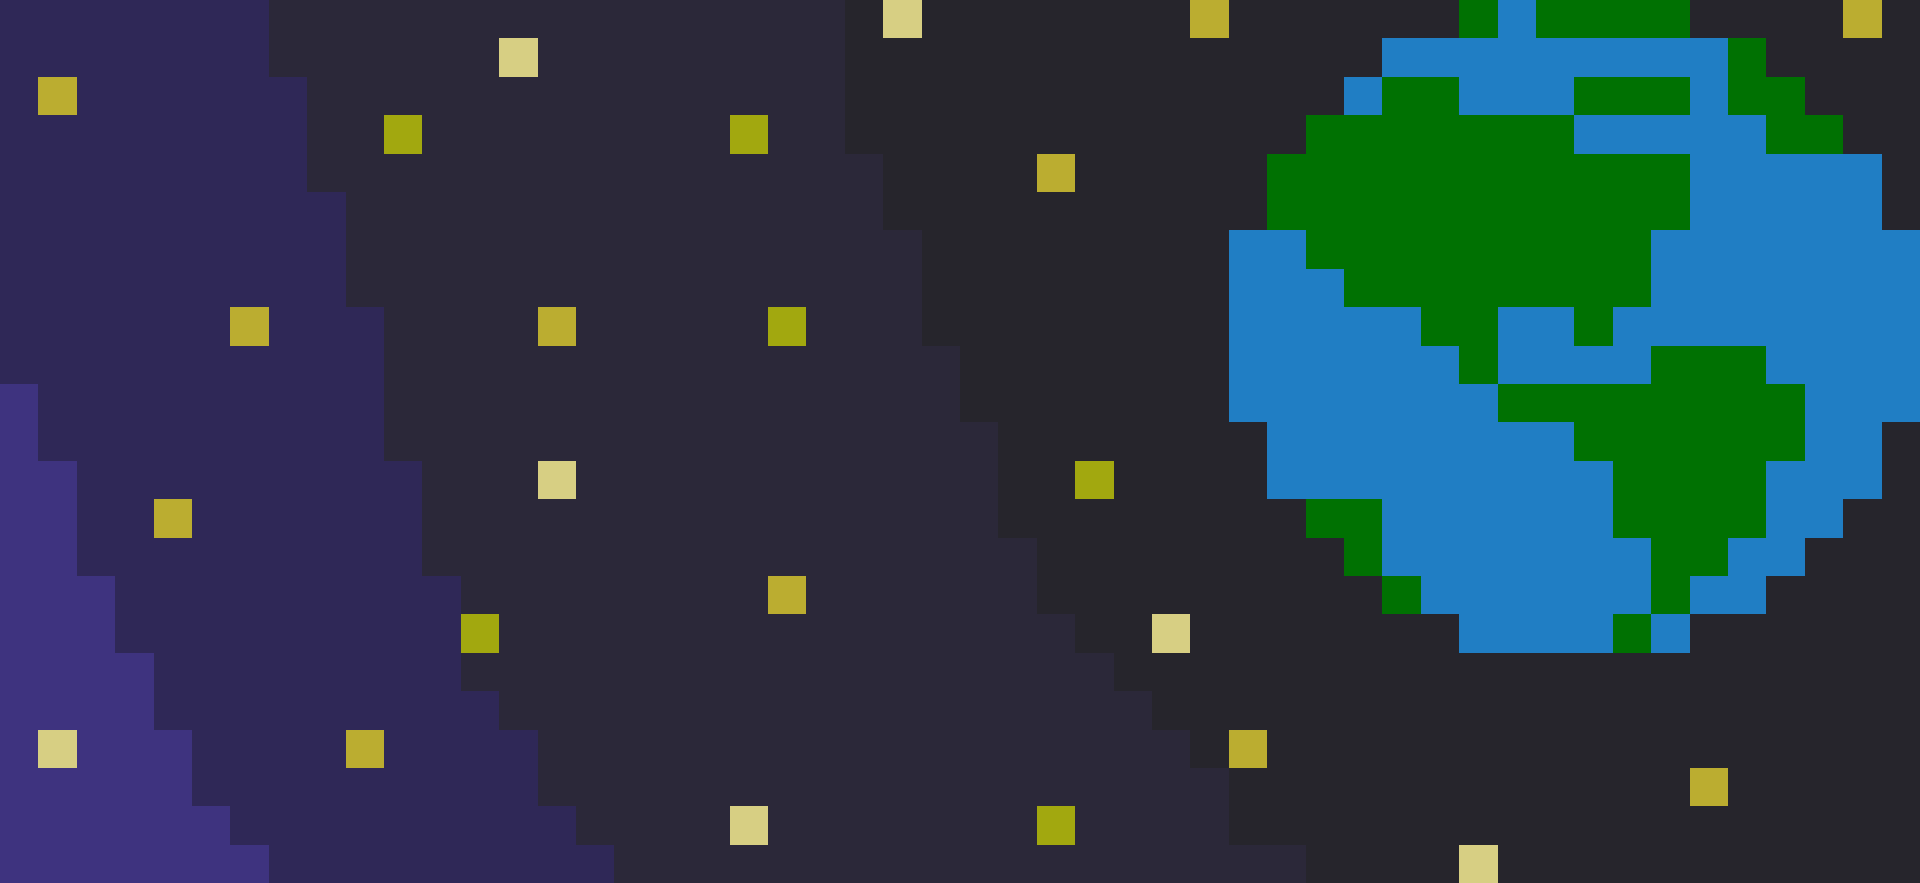
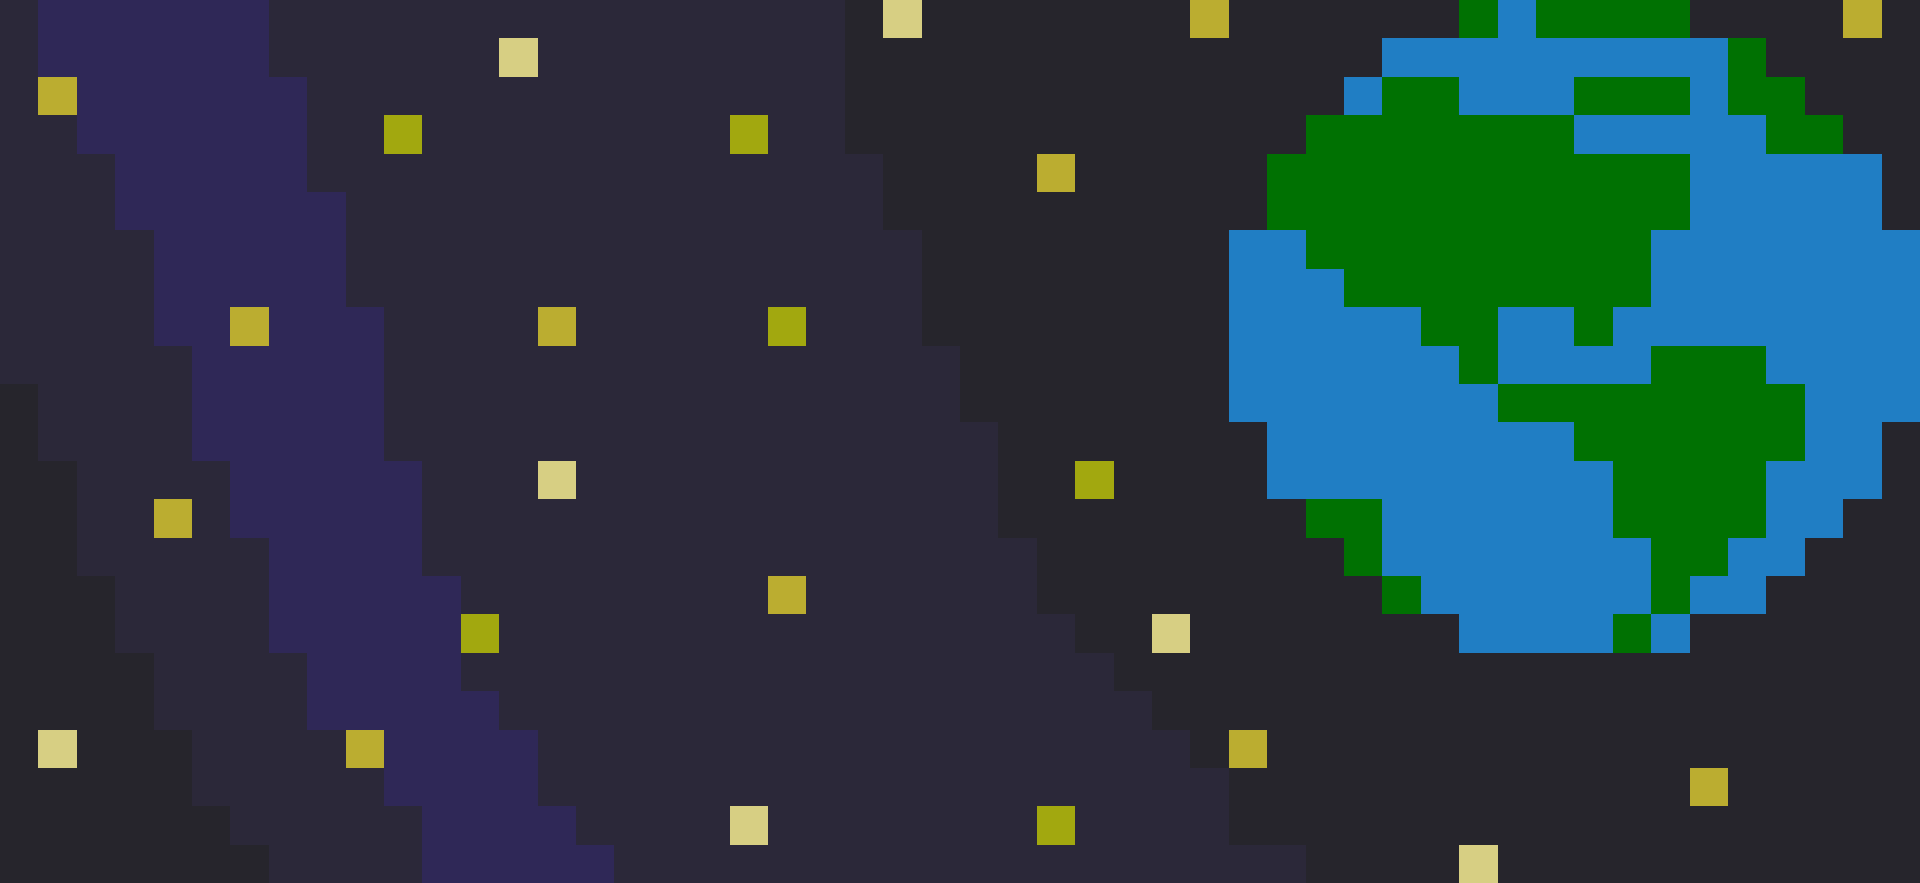
barriers and floors of levels

Changed region(s): [[0.0, 0.0, 0.2188, 1.0]]

diff --git a/screens/Game/BaseGame.js b/screens/Game/BaseGame.js
@@ -21,7 +21,6 @@ export default function BaseGame({ background, playerGiF, barrierImg, floorImg, 
 
     // screen animation values
     const screenX = useRef(new Animated.Value(0)).current;
-    const rotateVal = useRef(new Animated.Value(0)).current;
 
     const { width: SCREEN_WIDTH } = Dimensions.get('window');
 
@@ -176,7 +175,7 @@ useEffect(() => { // screen background animation
                 styles.background,
                 { transform: [{ translateX: screenX }] },
             ]}
-            resizeMode="cover"
+            resizeMode="stretch"
         />
         <Animated.Image
             source={background}
@@ -188,14 +187,14 @@ useEffect(() => { // screen background animation
                     transform: [{ translateX: screenX }],
                 },
             ]}
-            resizeMode="cover"
+            resizeMode="stretch"
         />
     
         {/* Game content goes here */}
-
+    
         <ImageBackground source={floorImg} style={styles.floor} imageStyle={{ resizeMode: 'stretch' }} />
 
-            <View style={styles.scoreArea}><Text style={styles.scoreText}> Score: {score} </Text></View>
+        <View style={styles.scoreArea}><Text style={styles.scoreText}> Score: {score} </Text></View>
 
 
         {/* Player */}
@@ -273,8 +272,8 @@ const styles = StyleSheet.create({
         left: 60,
     },
     barrier: {
-        width: 30,
-        height: 80,
+        width: 50,
+        height: 100,
         position: 'absolute',
         bottom: 90,
         left: 0,

diff --git a/screens/Game/Mountain.js b/screens/Game/Mountain.js
@@ -1,16 +1,23 @@
-import { View, Text, StyleSheet } from 'react-native';
+import React from 'react';
+import { View } from 'react-native';
+import BaseGame from './BaseGame';
+import barrier from '../../assets/barriers/mountainBarrier.png';
+import background from '../../assets/levelbackgrounds/Mountain_lvl_bg.png';
+import floor from '../../assets/levelfloor/mountainGround.png';
 
-function Mountain() {
+export default function Track({ playerCharacter, onComplete, onFail }) {
   return (
-    <View style={styles.container}>
-      <Text> Mountain Lvl</Text>
+    <View style={{ flex: 1 }}>
+      <BaseGame
+        background={background}
+        playerGiF={playerCharacter}
+        barrierImg={barrier}
+        floorImg={floor}
+        onComplete={onComplete}
+        onFail={onFail}
+      />
     </View>
+
   );
+
 }
-
-export default Mountain; 
-
-
-const styles = StyleSheet.create({
-    container: {},
-});

diff --git a/screens/Game/Desert.js b/screens/Game/Desert.js
@@ -1,16 +1,23 @@
-import { View, Text, StyleSheet } from 'react-native';
+import React from 'react';
+import { View } from 'react-native';
+import BaseGame from './BaseGame';
+import barrier from '../../assets/barriers/desertBarrier.png';
+import background from '../../assets/levelbackgrounds/Desert_lvl_bg.png';
+import floor from '../../assets/levelfloor/desertGround.png';
 
-function Desert() {
+export default function Track({ playerCharacter, onComplete, onFail }) {
   return (
-    <View style={styles.container}>
-      <Text> Desert Lvl</Text>
+    <View style={{ flex: 1 }}>
+      <BaseGame
+        background={background}
+        playerGiF={playerCharacter}
+        barrierImg={barrier}
+        floorImg={floor}
+        onComplete={onComplete}
+        onFail={onFail}
+      />
     </View>
+
   );
+
 }
-
-export default Desert; 
-
-
-const styles = StyleSheet.create({
-    container: {},
-});

diff --git a/screens/Game/Forest.js b/screens/Game/Forest.js
@@ -1,16 +1,23 @@
-import { View, Text, StyleSheet } from 'react-native';
+import React from 'react';
+import { View } from 'react-native';
+import BaseGame from './BaseGame';
+import barrier from '../../assets/barriers/forestBarrier.png';
+import background from '../../assets/levelbackgrounds/Forest_lvl_bg.png';
+import floor from '../../assets/levelfloor/forestGround.png';
 
-function Forest() {
+export default function Track({ playerCharacter, onComplete, onFail }) {
   return (
-    <View style={styles.container}>
-      <Text> Forest Lvl</Text>
+    <View style={{ flex: 1 }}>
+      <BaseGame
+        background={background}
+        playerGiF={playerCharacter}
+        barrierImg={barrier}
+        floorImg={floor}
+        onComplete={onComplete}
+        onFail={onFail}
+      />
     </View>
+
   );
+
 }
-
-export default Forest; 
-
-
-const styles = StyleSheet.create({
-    container: {},
-});

diff --git a/screens/Game/Space.js b/screens/Game/Space.js
@@ -1,16 +1,23 @@
-import { View, Text, StyleSheet } from 'react-native';
+import React from 'react';
+import { View } from 'react-native';
+import BaseGame from './BaseGame';
+import barrier from '../../assets/barriers/spaceBarrier.png';
+import background from '../../assets/levelbackgrounds/Space_lvl_bg.png';
+import floor from '../../assets/levelfloor/spaceGround.png';
 
-function Space() {
+export default function Track({ playerCharacter, onComplete, onFail }) {
   return (
-    <View style={styles.container}>
-      <Text> Space Lvl</Text>
+    <View style={{ flex: 1 }}>
+      <BaseGame
+        background={background}
+        playerGiF={playerCharacter}
+        barrierImg={barrier}
+        floorImg={floor}
+        onComplete={onComplete}
+        onFail={onFail}
+      />
     </View>
+
   );
+
 }
-
-export default Space; 
-
-
-const styles = StyleSheet.create({
-    container: {},
-});

diff --git a/screens/Game/Road.js b/screens/Game/Road.js
@@ -1,16 +1,23 @@
-import { View, Text, StyleSheet } from 'react-native';
+import React from 'react';
+import { View } from 'react-native';
+import BaseGame from './BaseGame';
+import barrier from '../../assets/barriers/roadBarrier.png';
+import background from '../../assets/levelbackgrounds/Road_lvl_bg.png';
+import floor from '../../assets/levelfloor/roadGround.png';
 
-function Road() {
+export default function Track({ playerCharacter, onComplete, onFail }) {
   return (
-    <View style={styles.container}>
-      <Text> Road Lvl</Text>
+    <View style={{ flex: 1 }}>
+      <BaseGame
+        background={background}
+        playerGiF={playerCharacter}
+        barrierImg={barrier}
+        floorImg={floor}
+        onComplete={onComplete}
+        onFail={onFail}
+      />
     </View>
+
   );
+
 }
-
-export default Road; 
-
-
-const styles = StyleSheet.create({
-    container: {},
-});
